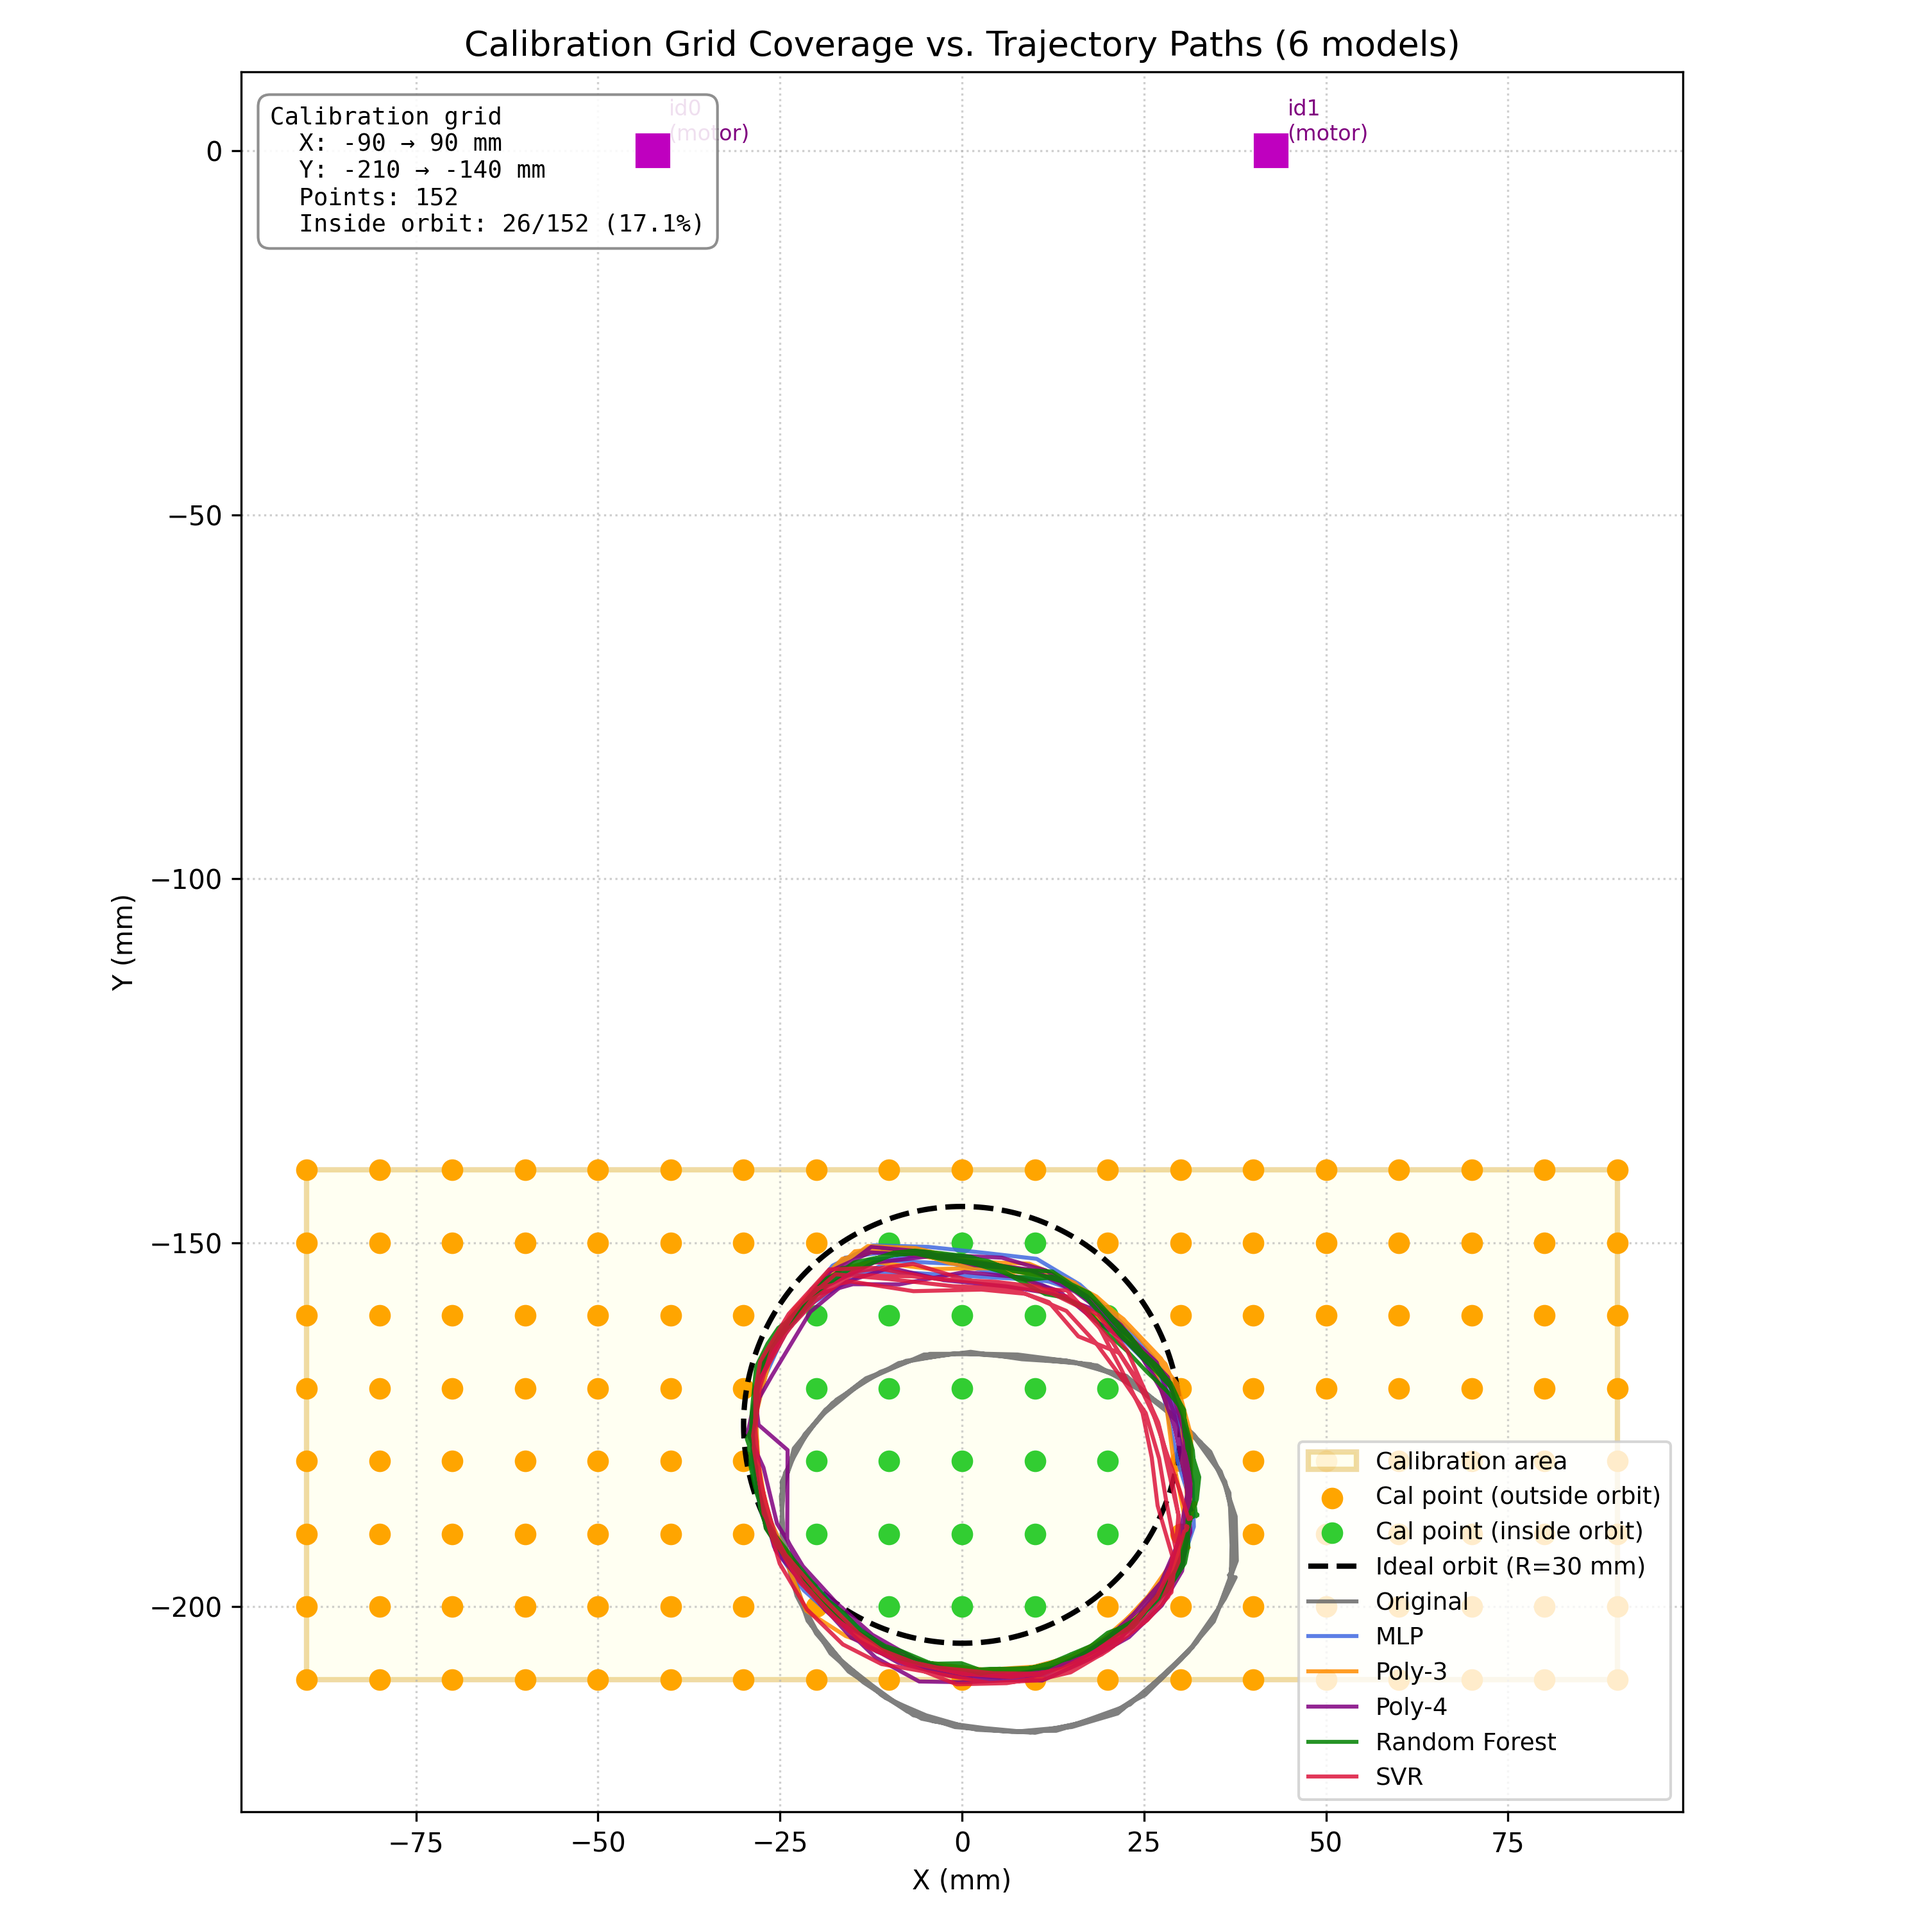
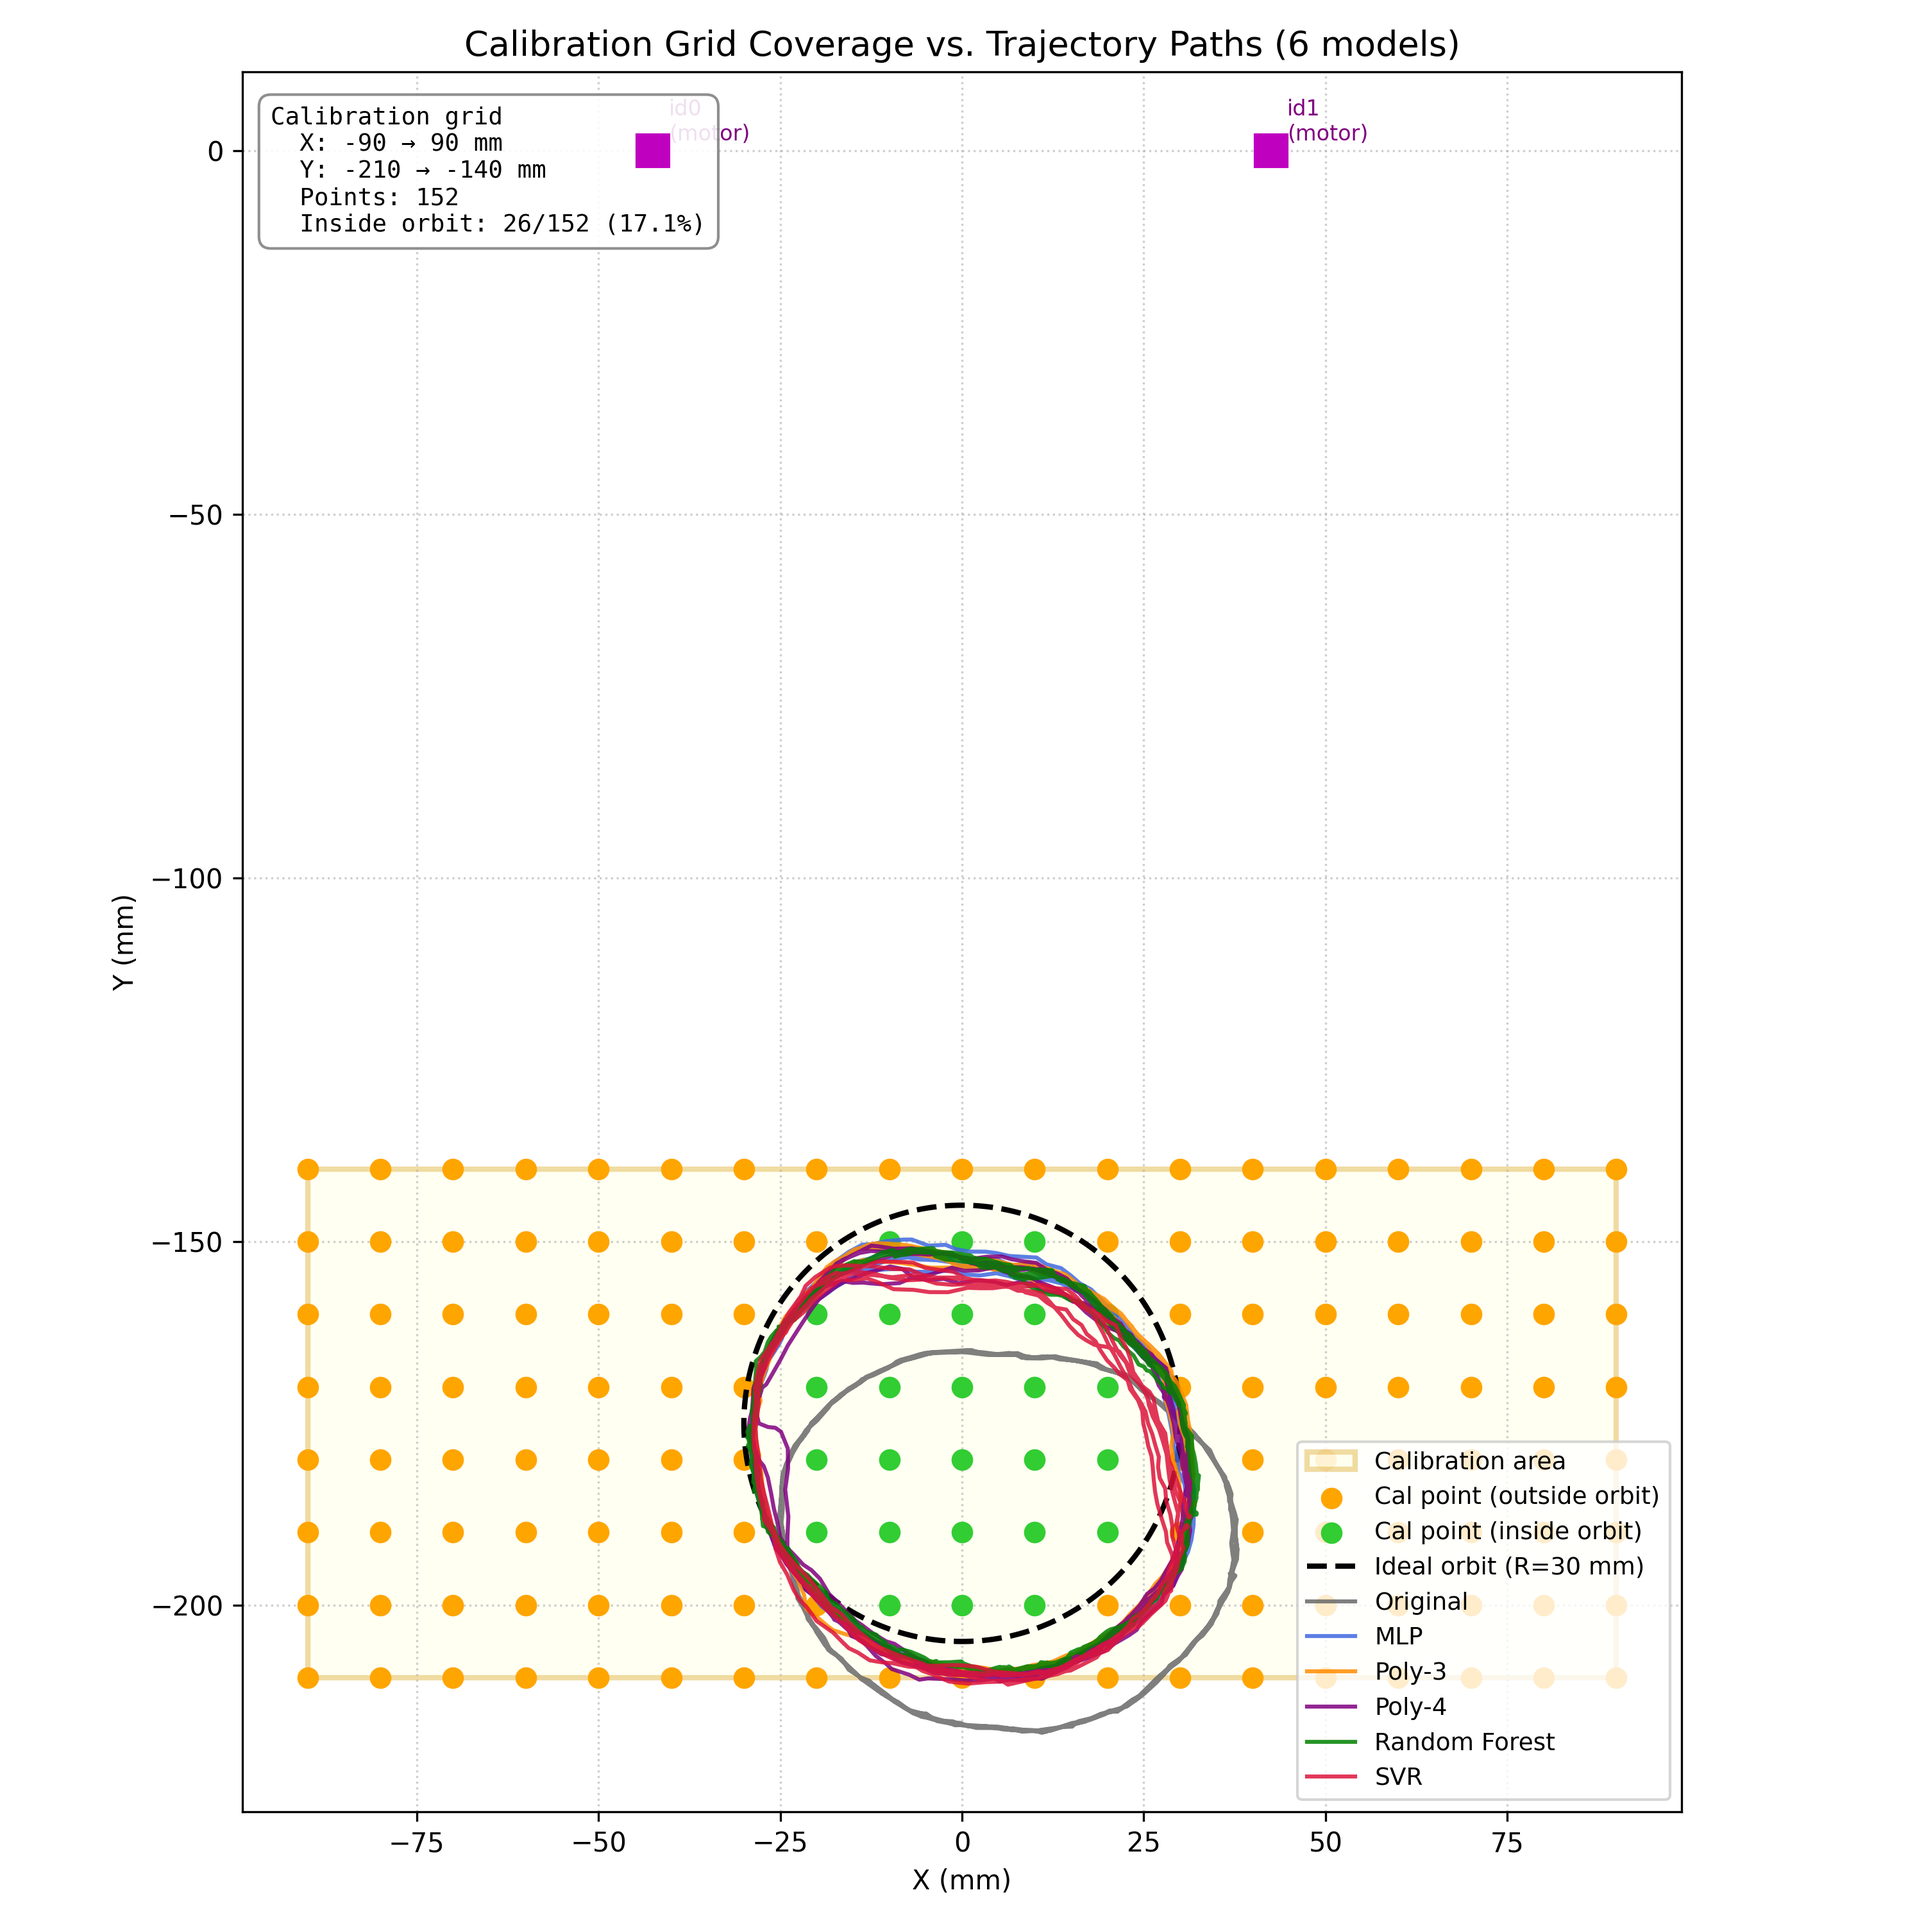
Enhance calibration coverage check with multi-threading and GPU support for improved performance

diff --git a/python/paper_testing/test_2/calibration_coverage_check.py b/python/paper_testing/test_2/calibration_coverage_check.py
@@ -11,6 +11,9 @@ calibration_coverage_check.py  (v2 — multi-video)
 
 import os
 import csv
+import threading
+import queue as _queue
+import concurrent.futures
 
 import cv2
 import cv2.aruco as aruco
@@ -19,6 +22,12 @@ import matplotlib
 matplotlib.use("Agg")
 import matplotlib.pyplot as plt
 import matplotlib.colors as mcolors
+
+# ─ GPU / CUDA detection ─
+try:
+    USE_CUDA = cv2.cuda.getCudaEnabledDeviceCount() > 0
+except (cv2.error, AttributeError):
+    USE_CUDA = False
 
 # ─────────────────────────────────────────
 # 1. CONFIG
@@ -38,7 +47,7 @@ GRID_CSV   = os.path.join(os.path.dirname(os.path.abspath(__file__)),
                            "output", "data", "workspace_grid.csv")
 
 TARGET_ID  = 4          # ArTag ที่ปลายเท้า (เคลื่อนที่)
-FRAME_STEP = 4          # ประมวลผลทุก N เฟรม
+FRAME_STEP = 1          # ประมวลผลทุก N เฟรม
 
 # การตัดส่วนนิ่ง
 MOTION_THRESHOLD_MM = 2.0   # displacement ต่ำกว่านี้ถือว่านิ่ง (mm)
@@ -63,7 +72,7 @@ OUT_PLOT   = os.path.join(os.path.dirname(os.path.abspath(__file__)),
 
 # ─ Stabilized crop (portrait 9:16) ─
 OUT_W            = 720       # output width  (px) — เปลี่ยนได้ตาม resolution
-OUT_H            = 1280      # output height (px) — 9:16
+OUT_H            = 720       # output height (px) — 1:1
 CROP_CENTER_MM   = np.array([0.0, -100.0])  # จุดกึ่งกลาง crop ในระนาบ world (mm)
                               #   (0, 0) = กึ่งกลาง id0-id1,  (0,-175) = ศูนย์กลางวงโคจร
 STAB_ALPHA       = 0.15      # EMA smoothing (0 = นิ่งสนิท, 1 = ไม่ smooth)
@@ -155,6 +164,42 @@ def in_calib_area(pt_mm, grid_pts, margin=0.0):
     return (x_min <= pt_mm[0] <= x_max) and (y_min <= pt_mm[1] <= y_max)
 
 
+def _make_undistort_maps(calib_file, w, h):
+    """Precompute remap maps — เร็วกว่า cv2.undistort ~5×"""
+    with np.load(calib_file) as data:
+        mtx, dist = data["camera_matrix"], data["dist_coeffs"]
+    new_mtx, _ = cv2.getOptimalNewCameraMatrix(mtx, dist, (w, h), 0)
+    map1, map2 = cv2.initUndistortRectifyMap(
+        mtx, dist, None, new_mtx, (w, h), cv2.CV_16SC2,
+    )
+    return map1, map2
+
+
+class _AsyncVideoWriter:
+    """เขียน VideoWriter ใน background thread — ลด I/O blocking"""
+
+    def __init__(self, path, fourcc, fps, size):
+        self._writer = cv2.VideoWriter(path, fourcc, fps, size)
+        self._q = _queue.Queue(maxsize=128)
+        self._t = threading.Thread(target=self._run, daemon=True)
+        self._t.start()
+
+    def _run(self):
+        while True:
+            item = self._q.get()
+            if item is None:
+                break
+            self._writer.write(item)
+
+    def write(self, frame):
+        self._q.put(frame)
+
+    def release(self):
+        self._q.put(None)
+        self._t.join()
+        self._writer.release()
+
+
 def _stabilize_crop(img, stab_mid, stab_angle, cc_orig, frame_w, frame_h):
     """หมุน img ให้ id0→id1 แนวนอน แล้ว crop portrait OUT_W × OUT_H
 
@@ -174,10 +219,20 @@ def _stabilize_crop(img, stab_mid, stab_angle, cc_orig, frame_w, frame_h):
         cc_h     = np.array([float(cc_orig[0]), float(cc_orig[1]), 1.0])
         cc_r     = M_rot @ cc_h
         cx, cy   = float(cc_r[0]), float(cc_r[1])
-        rotated  = cv2.warpAffine(img, M_rot, (frame_w, frame_h),
-                                   flags=cv2.INTER_LINEAR,
-                                   borderMode=cv2.BORDER_CONSTANT,
-                                   borderValue=(0, 0, 0))
+        if USE_CUDA:
+            _g = cv2.cuda_GpuMat()
+            _g.upload(img)
+            rotated = cv2.cuda.warpAffine(
+                _g, M_rot, (frame_w, frame_h),
+                flags=cv2.INTER_LINEAR,
+                borderMode=cv2.BORDER_CONSTANT,
+                borderValue=(0, 0, 0),
+            ).download()
+        else:
+            rotated = cv2.warpAffine(img, M_rot, (frame_w, frame_h),
+                                      flags=cv2.INTER_LINEAR,
+                                      borderMode=cv2.BORDER_CONSTANT,
+                                      borderValue=(0, 0, 0))
     else:
         # fallback: ไม่หมุน, crop กึ่งกลาง frame
         cx, cy  = frame_w / 2.0, frame_h / 2.0
@@ -216,9 +271,6 @@ def scan_video(video_path, calib_file):
     """
     print(f"  Scanning: {os.path.basename(video_path)}", flush=True)
 
-    with np.load(calib_file) as data:
-        mtx, dist = data["camera_matrix"], data["dist_coeffs"]
-
     cap = cv2.VideoCapture(video_path)
     if not cap.isOpened():
         raise FileNotFoundError(f"Cannot open: {video_path}")
@@ -226,7 +278,7 @@ def scan_video(video_path, calib_file):
     fps = cap.get(cv2.CAP_PROP_FPS) or 30.0
     w   = int(cap.get(cv2.CAP_PROP_FRAME_WIDTH))
     h   = int(cap.get(cv2.CAP_PROP_FRAME_HEIGHT))
-    new_mtx, _ = cv2.getOptimalNewCameraMatrix(mtx, dist, (w, h), 0)
+    map1, map2 = _make_undistort_maps(calib_file, w, h)
 
     detector = aruco.ArucoDetector(
         aruco.getPredefinedDictionary(aruco.DICT_6X6_250),
@@ -242,7 +294,7 @@ def scan_video(video_path, calib_file):
         fc += 1
         if fc % FRAME_STEP != 0:
             continue
-        img  = cv2.undistort(frame, mtx, dist, None, new_mtx)
+        img  = cv2.remap(frame, map1, map2, cv2.INTER_LINEAR)
         gray = cv2.cvtColor(img, cv2.COLOR_BGR2GRAY)
         corners, ids, _ = detector.detectMarkers(gray)
         centers = _marker_centers(corners, ids)
@@ -304,13 +356,10 @@ def write_annotated_segment(video_path, calib_file, grid_pts,
     """อ่านวิดีโอเฉพาะช่วง [frame_start, frame_end]
     annotate → align/rotate (id0-id1 แนวนอน) → crop portrait 9:16 → เขียนลง writer
     """
-    with np.load(calib_file) as data:
-        mtx, dist = data["camera_matrix"], data["dist_coeffs"]
-
     cap = cv2.VideoCapture(video_path)
     w   = int(cap.get(cv2.CAP_PROP_FRAME_WIDTH))
     h   = int(cap.get(cv2.CAP_PROP_FRAME_HEIGHT))
-    new_mtx, _ = cv2.getOptimalNewCameraMatrix(mtx, dist, (w, h), 0)
+    map1, map2 = _make_undistort_maps(calib_file, w, h)
 
     detector = aruco.ArucoDetector(
         aruco.getPredefinedDictionary(aruco.DICT_6X6_250),
@@ -342,7 +391,7 @@ def write_annotated_segment(video_path, calib_file, grid_pts,
         if fc < frame_start or fc % FRAME_STEP != 0:
             continue
 
-        img  = cv2.undistort(frame, mtx, dist, None, new_mtx)
+        img  = cv2.remap(frame, map1, map2, cv2.INTER_LINEAR)
         gray = cv2.cvtColor(img, cv2.COLOR_BGR2GRAY)
         corners, ids, _ = detector.detectMarkers(gray)
         centers  = _marker_centers(corners, ids)
@@ -501,15 +550,20 @@ if __name__ == "__main__":
     print(f"  X range: {grid_pts[:,0].min()} → {grid_pts[:,0].max()} mm")
     print(f"  Y range: {grid_pts[:,1].min()} → {grid_pts[:,1].max()} mm")
 
-    # ── Pass 1: scan + trim ──────────────────────────
-    print("\n=== Pass 1: scanning videos ===")
+    # ── Pass 1: scan + trim (parallel) ──────────────────────────
+    n_workers = min(len(VIDEOS), os.cpu_count() or 1)
+    print(f"\n=== Pass 1: scanning {len(VIDEOS)} videos ({n_workers} parallel workers) ===")
+    print(f"  GPU acceleration: {'CUDA enabled' if USE_CUDA else 'CPU only'}", flush=True)
     all_trimmed = []
     vid_fps  = None
     vid_size = None
 
-    for video_path, label, color in VIDEOS:
+    with concurrent.futures.ProcessPoolExecutor(max_workers=n_workers) as ex:
+        futures = [ex.submit(scan_video, vp, CALIB_FILE) for vp, _, _ in VIDEOS]
+        scan_results = [f.result() for f in futures]
+
+    for (video_path, label, color), (tracked, fps, size) in zip(VIDEOS, scan_results):
         print(f"\n[{label}]")
-        tracked, fps, size = scan_video(video_path, CALIB_FILE)
         if vid_fps is None:
             vid_fps  = fps
             vid_size = size
@@ -518,10 +572,11 @@ if __name__ == "__main__":
 
     # ── Pass 2: เขียน annotated video ─────────────────
     print("\n=== Pass 2: writing annotated video ===")
-    os.makedirs(os.path.dirname(OUT_VIDEO), exist_ok=True) if os.path.dirname(OUT_VIDEO) else None
+    if os.path.dirname(OUT_VIDEO):
+        os.makedirs(os.path.dirname(OUT_VIDEO), exist_ok=True)
     fourcc  = cv2.VideoWriter_fourcc(*"mp4v")
     out_fps = (vid_fps or 30.0) / FRAME_STEP
-    writer  = cv2.VideoWriter(OUT_VIDEO, fourcc, out_fps, (OUT_W, OUT_H))
+    writer  = _AsyncVideoWriter(OUT_VIDEO, fourcc, out_fps, (OUT_W, OUT_H))
 
     results_for_plot = []
     for (video_path, label, color), trimmed in zip(VIDEOS, all_trimmed):
